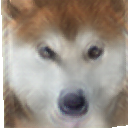
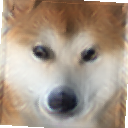
fix bug in visualise discriminator & add new exp config

diff --git a/unsup3d/trainer.py b/unsup3d/trainer.py
@@ -504,8 +504,14 @@ class Trainer:
         discriminator.set_eval()
 
         input_im = input.to(self.device)
+        b = input.shape[0]
 
-        x_fake, recon_im_mask,_, _,_ = generator.forward(input)
+        random_view = torch.rand(b, 6)
+        random_view[:,3:] = 0
+        random_view[:,:2] = 0
+        random_view[:,2] -= 0.5
+
+        x_fake, recon_im_mask,_, _,_ = generator.forward(input, random_view)
         x_fake = torch.clamp(x_fake,0,1)*2 -1 
         discriminator.forward(x_fake)
         discriminator.visualize(logger, total_iter, fake=True)
